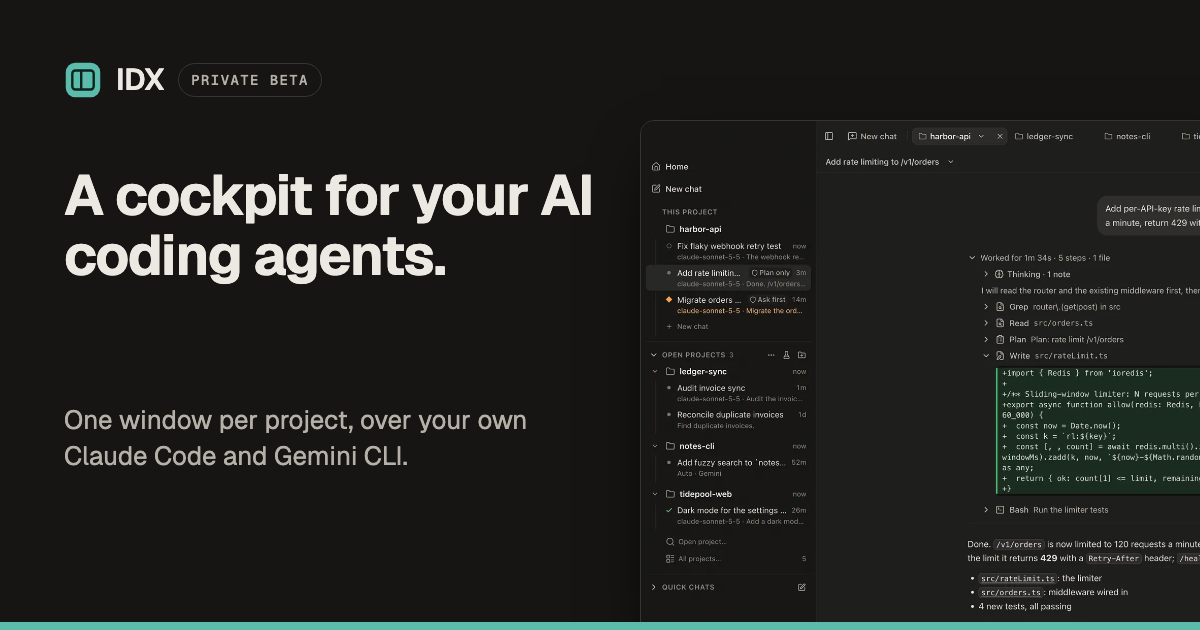
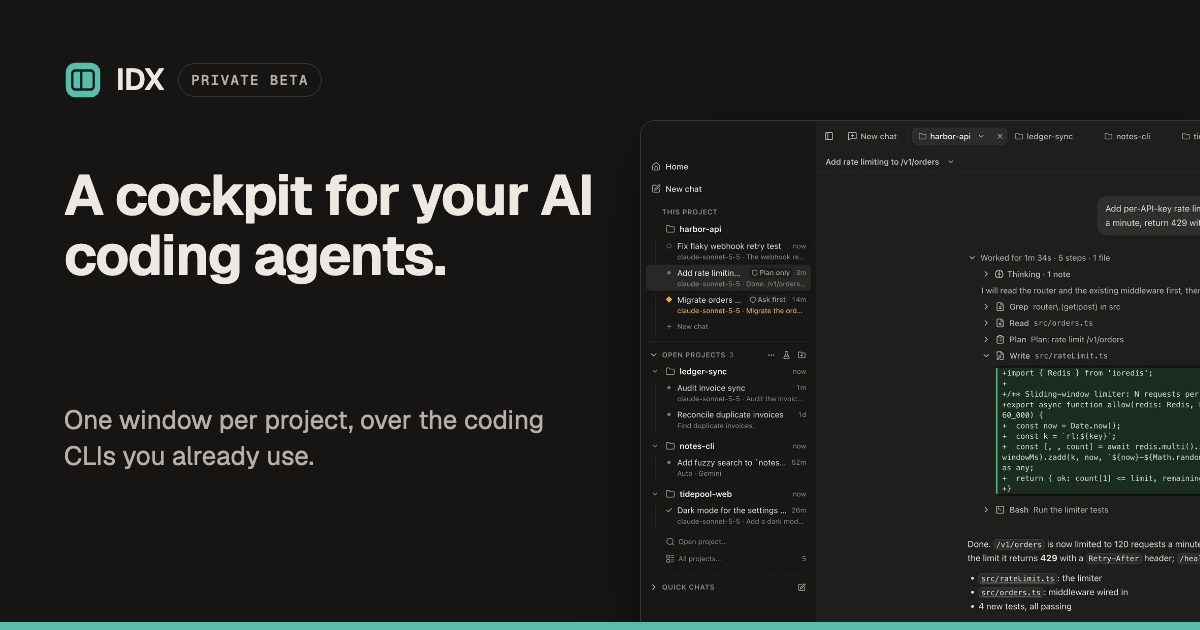
IDX-481 Landing refresh: five CLIs, one way to start a chat, honest screenshot version (#4)
- Hero, meta and share image name the five CLIs (Claude Code, Gemini CLI, Antigravity, Grok Build, Cursor CLI)
- New 'Five coding CLIs' block with per-CLI depth, and 'What makes it different' (v0.1.38-0.1.39)
- Stale Claude+Gemini-only lines fixed; honest limits for Grok/Cursor terminal read-back
- Screenshot captions say v0.1.36 instead of 'current build'
- Changelog snapshot synced to v0.1.39

Claude-Session: https://claude.ai/code/session_016BcN68951ToWogPm3q9fyQ

Changed region(s): [[0.0617, 0.6937, 0.3392, 0.754], [0.3392, 0.6333, 0.4625, 0.6937]]

diff --git a/src/site.css b/src/site.css
@@ -343,3 +343,14 @@ footer.site .legal a{text-decoration:underline;color:var(--muted)}
 .older>summary::before{content:"+";font-family:var(--font-mono);font-size:1.3rem;line-height:1}
 .older[open]>summary::before{content:"\2212"}
 .older>summary:focus-visible{outline:2px solid var(--accent-text);outline-offset:3px;border-radius:4px}
+/* Five CLIs: start order and per-CLI cards (IDX-481) */
+.cli-flow{list-style:none;padding:0;margin:0 0 1.75rem;display:grid;gap:.75rem;grid-template-columns:1fr}
+@media(min-width:42em){.cli-flow{grid-template-columns:repeat(4,1fr)}}
+.cli-flow li{position:relative;display:grid;grid-template-columns:auto 1fr;column-gap:.7rem;align-items:baseline;background:var(--surface2);border:1px solid var(--border);border-radius:12px;padding:.85rem 1rem}
+.cli-flow .num{grid-row:span 2;width:1.5rem;height:1.5rem;border-radius:50%;background:var(--accent);color:var(--on-accent);font:700 .75rem/1.5rem var(--font-mono);text-align:center;align-self:start}
+.cli-flow b{font-size:1.02rem}.cli-flow small{color:var(--muted);font-size:.86rem;line-height:1.35}
+@media(min-width:42em){.cli-flow li:not(:last-child)::after{content:"";position:absolute;right:-.62rem;top:50%;width:.5rem;height:.5rem;border-top:2px solid var(--faint);border-right:2px solid var(--faint);transform:translateY(-50%) rotate(45deg)}}
+.clis{display:grid;gap:1.25rem;grid-template-columns:repeat(auto-fit,minmax(min(100%,13.5rem),1fr))}
+.clis .card ul{padding-left:1.1rem;margin:.6rem 0 0;color:var(--muted);font-size:.93rem}.clis .card li{margin:.3rem 0}
+.depth{display:inline-block;font-family:var(--font-mono);font-size:.78rem;text-transform:uppercase;letter-spacing:.06em;color:var(--accent-text);border:1px solid var(--accent);border-radius:99px;padding:.1rem .55rem;margin:0 0 .7rem}
+.depth.term{color:var(--muted);border-color:var(--border)}
